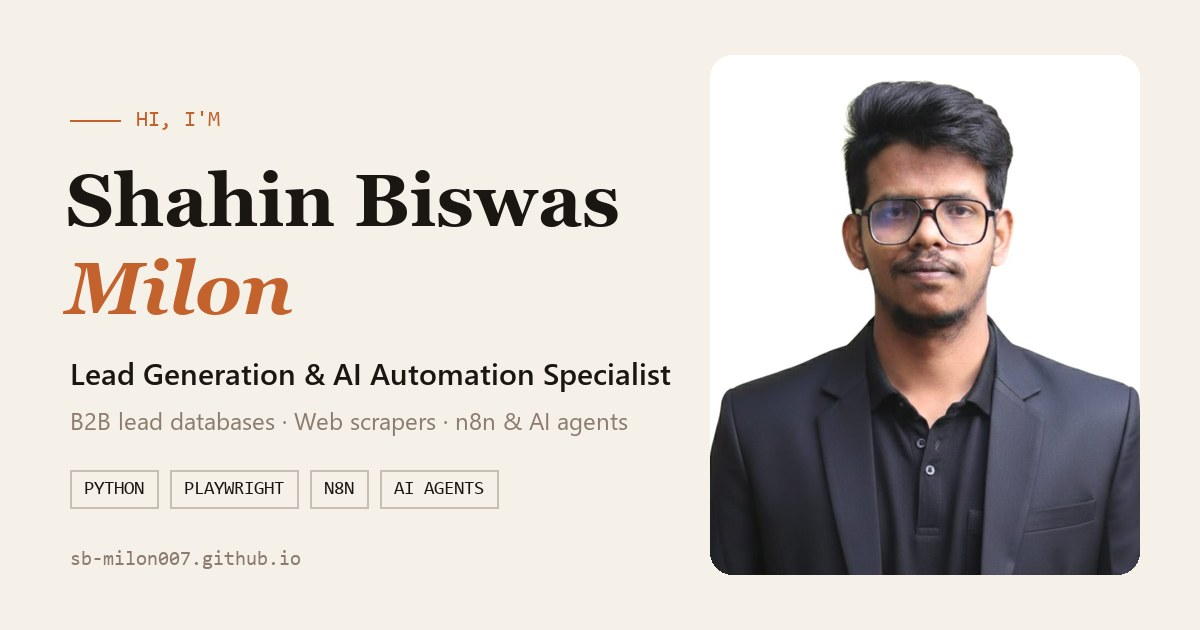
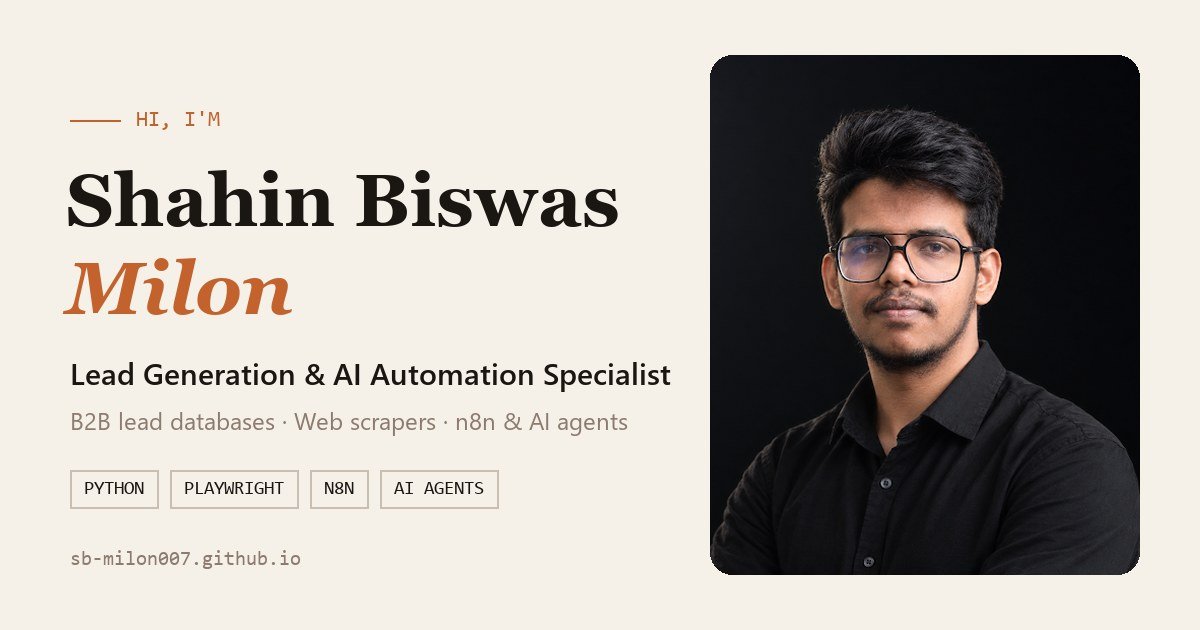
Update profile photo and share card

Changed region(s): [[0.5858, 0.0603, 0.9558, 0.9349]]

diff --git a/index.html b/index.html
@@ -1134,7 +1134,7 @@
   <div class="hero-right">
     <div class="hero-visual">
       <div class="hero-photo-wrap">
-        <img src="images/profile.jpg" alt="Shahin Biswas Milon" class="hero-photo" />
+        <img src="images/profile.jpg?v=2" alt="Shahin Biswas Milon" class="hero-photo" />
         <div class="hero-photo-badge">Lead Gen &amp; AI Agents</div>
         <div class="hero-photo-dot"></div>
       </div>
